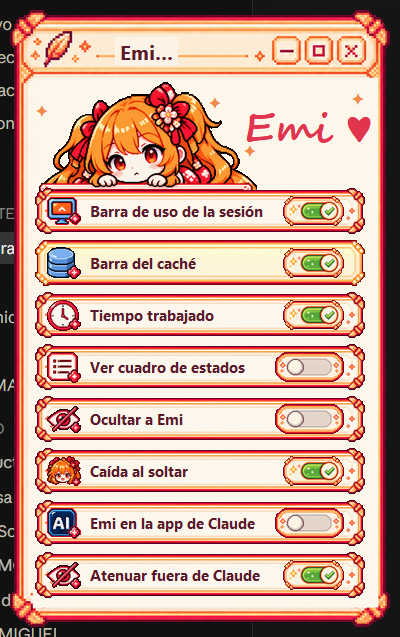
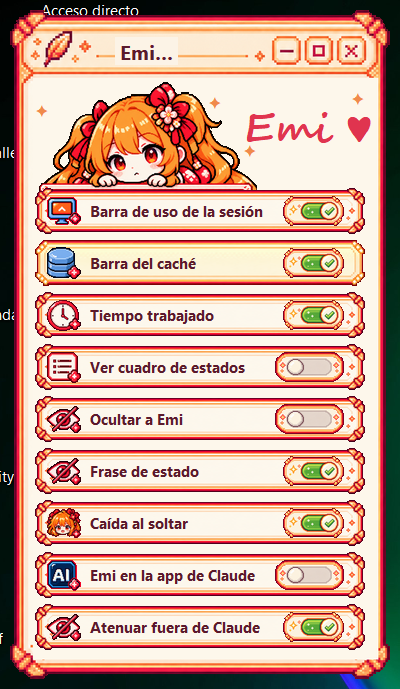
Versión 0.3.0: opción «Frase de estado» en el panel y documentación al día
- Panel de la tuerca con 9 opciones (nueva: mostrar u ocultar la frase de estado).
- CLAUDE.md, README e informe técnico (sección 14) actualizados.
- Versión 0.3.0 para que claude plugin update traiga los cambios.

diff --git a/mod/escritorio/exportar_frames.py b/mod/escritorio/exportar_frames.py
@@ -160,7 +160,7 @@ if MARCO_ORIGEN.exists():
 # Se reducen con Lanczos (es ilustración grande, no píxel a píxel) y alfa de todo o nada, como el resto. Medidas en px del panel (ver emi_escritorio.pyw).
 INTERFAZ = RAIZ / 'arte' / 'interfaz'
 DESTINO_UI = Path(__file__).resolve().parent / 'interfaz'
-PANEL_ANCHO, PANEL_ALTO, FILA_ANCHO, FILA_ALTO, INTER_ALTO = 380, 617, 330, 46, 30  # 8 filas
+PANEL_ANCHO, PANEL_ALTO, FILA_ANCHO, FILA_ALTO, INTER_ALTO = 380, 669, 330, 46, 30  # 9 filas
 
 
 def alfa_binario(im: Image.Image) -> Image.Image:
@@ -209,11 +209,11 @@ if INTERFAZ.exists():
     print('interfaz:', sorted(p.name for p in DESTINO_UI.glob('*.png')))
 
 # Iconos de las filas del panel (arte\interfaz\ICONO-INTERFAZ\1..7.png, en el orden de FILAS_PANEL), a 34 px de alto.
-ICONOS = ['uso', 'cache', 'tiempo', 'cuadro', 'oculta', 'caida', 'banda_app', 'atenuar']
+ICONOS = ['uso', 'cache', 'tiempo', 'cuadro', 'oculta', 'caida', 'banda_app', 'atenuar', 'mensaje']
 if (INTERFAZ / 'ICONO-INTERFAZ').exists():
     for n, k in enumerate(ICONOS, 1):
         origen = INTERFAZ / 'ICONO-INTERFAZ' / f'{n}.png'
-        im = alfa_binario(Image.open(origen if origen.exists() else INTERFAZ / 'ICONO-INTERFAZ' / '5.png'))  # sin icono propio (8: transparente fuera de Claude), el del ojo
+        im = alfa_binario(Image.open(origen if origen.exists() else INTERFAZ / 'ICONO-INTERFAZ' / '5.png'))  # sin icono propio (8: atenuar, 9: frase de estado), el del ojo
         im = im.crop(im.getbbox())
         lado = 34
         alfa_binario(im.resize((round(im.width * lado / max(im.size)), round(im.height * lado / max(im.size))), Image.LANCZOS)).save(DESTINO_UI / f'icono_{k}.png', optimize=True)

diff --git a/CLAUDE.md b/CLAUDE.md
@@ -2,12 +2,12 @@
 
 Lee esto primero. Es el historial completo del proyecto, las reglas del usuario y lo que falta. El README.md explica cómo cargar y compartir el mod; este archivo explica **cómo se llegó aquí y cómo seguir**.
 
-## 0. Estado vigente (2026-10-11) — manda sobre el resto de este archivo
+## 0. Estado vigente (2026-10-12) — manda sobre el resto de este archivo
 - **Estados:** 11 en uso (`baile` fuera). Arte nuevo naranja, 8 fotogramas: pensando, responde, escribiendo, leyendo, terminado, hula, necesita, duerme. Arte lila, 4 fotogramas: nueva, falla, para. **Todos a 5 fps** (`PASO_MS = 200` en `dibujo.ts`; `PASO_S` en Emi escritorio).
 - **Emi escritorio** (`mod\escritorio\emi_escritorio.pyw`): chat (= «frase de estado») con frase, detalle y **modelo que trabaja**; se vuelve semitransparente con el ratón encima. **Dos barras** con el marco de `arte\barra-emi-claude` (90×196): caché (1 h) y % de la sesión (5 h), número en horizontal arriba. Emi y las barras van en **un solo Canvas**: las barras quedan a 2 px de Emi (perfil fila a fila) y quietas durante la animación (manda el dibujo más ancho del estado). Estados solo de escritorio: sujeta, caida, caminando (y guardando).
-- **Panel de la tuerca ⚙** con el arte de `arte\interfaz` (ventana, filas, interruptores, `emi-para-interfaz.png`, iconos `ICONO-INTERFAZ\1..7`): 8 opciones con interruptor, se abre centrado. Opción 8 «Atenuar fuera de Claude»: Emi al 40 % si delante no está `claude.exe`/`windowsterminal.exe` ni el escritorio. Sin «caída al soltar», Emi se queda donde la dejas. Piezas generadas por `exportar_frames.py` en `mod\escritorio\interfaz\`.
+- **Panel de la tuerca ⚙** con el arte de `arte\interfaz` (ventana, filas, interruptores, `emi-para-interfaz.png`, iconos `ICONO-INTERFAZ\1..7`): **9 opciones** con interruptor, se abre centrado. «Frase de estado» muestra u oculta el globo. «Atenuar fuera de Claude»: Emi al 40 % si delante no está `claude.exe`/`windowsterminal.exe` ni el escritorio. Sin «caída al soltar», Emi se queda donde la dejas. Piezas generadas por `exportar_frames.py` en `mod\escritorio\interfaz\`. Atenuar y Frase de estado usan el icono del ojo hasta que haya `8.png`/`9.png`.
 - **Pruebas:** mod 58/58, laboratorio 21/21, `mod\escritorio\prueba_humo.py`. Recargar el mod sin abrir otra sesión: `/reload-plugins`.
-- **GitHub:** público, `SMRJ1421/EMI-ASISTENTE-CLAUDE`, versión 0.2.0; `arte\` no se sube. Instalar: `/plugin install mascota --marketplace SMRJ1421/EMI-ASISTENTE-CLAUDE`. Último commit subido: `5334491` (2026-10-11).
+- **GitHub:** público, `SMRJ1421/EMI-ASISTENTE-CLAUDE`, versión **0.3.0** (súbela en cada publicación: si no cambia, `claude plugin update` no trae nada); `arte\` no se sube. Instalar: `/plugin install mascota --marketplace SMRJ1421/EMI-ASISTENTE-CLAUDE`. Para actualizar en otro PC: `claude plugin marketplace update emilia-mascota` y reinstalar. Emi escritorio (y su tuerca) necesita Python con `pythonw` en el PATH.
 - **Equipo Emi (global, no del mod):** Opus esfuerzo bajo por defecto; ayudantes `emi-haiku` y `emi-sonnet` en `~\.claude\agents\`.
 - **Historial completo:** `docs\CHAT_ACTUALIZACION_ANIMACION.md` (secciones 1–51).
 
@@ -31,7 +31,7 @@ Estados: nueva, pensando, responde, leyendo, escribiendo, necesita, falla, para,
 ## 3. Estructura
 Ver tabla en README.md. Resumen: `mod\` (el mod; fuente de verdad), `laboratorio\` (mod `mascota-lab` con `/emilab` y `/emiproto`), `arte\` (PNG), `scripts\` (pipeline de sprites, diagnóstico, tsconfig), `docs\` (informes técnico y comparativo), `datos-laboratorio\` (medidas y bancos), `respaldos\` (copias antiguas; fuera de Git).
 
-Archivos del mod: `hooks\register.tsx` (único módulo de hooks), `sprites.ts` (429 KB generado, 5 tamaños × 12 × 4, RLE), `dibujo.ts` (celdas Raster, SVG, `elegirTam`, `planPanel`), `estados.ts` (frases, estados por herramienta), `deteccion.ts` (fallo real). Pruebas: `claude plugin test mod` (34), `claude plugin test laboratorio` (15), `claude plugin validate mod`. TypeScript: `npx -y -p typescript@5.6 tsc -p scripts\tsconfig\tc-mod` (y `tc2-lab`; ajusta rutas si falla).
+Archivos del mod: `hooks\register.tsx` (único módulo de hooks), `sprites.ts` (429 KB generado, 5 tamaños × 12 × 4, RLE), `dibujo.ts` (celdas Raster, SVG, `elegirTam`, `planPanel`), `estados.ts` (frases, estados por herramienta), `deteccion.ts` (fallo real). Pruebas: `claude plugin test mod` (58), `claude plugin test laboratorio` (21), `python mod\escritorio\prueba_humo.py`, `claude plugin validate mod`. TypeScript: `npx -y -p typescript@5.6 tsc -p scripts\tsconfig\tc-mod` (y `tc2-lab`; ajusta rutas si falla).
 
 ## 4. Cómo se llegó aquí (cronología)
 1. **Idea y primera versión.** Del pack `pack-mods-claude-code` (fuera de este proyecto) surgió la mascota. Se creó el mod a partir de la hoja de 12 estados y luego de `animacion de Emilia pixel de estados.png` (4 fotogramas por estado). No consume tokens (todo local).
@@ -60,16 +60,17 @@ Archivos del mod: `hooks\register.tsx` (único módulo de hooks), `sprites.ts` (
 2. Con una herramienta **rechazada de verdad**, que Emi no se asuste (la correlación `tool.check` → `tool.call` por `tool_use_id` **no se puede probar en el kit**; hay respaldo por texto `RECHAZO` y por `turno abortado`).
 3. Que cargue bien desde esta carpeta: `claude --plugin-dir "<ruta>\mod"`.
 
-**Decisión del usuario pendiente:** 4 fps (actual) o **8 fps con redibujo normal** (tick 125 ms, fotograma por tiempo; coste medido igual al actual). Comparar `/emiproto atomo8` con `/emiproto blit`. **No integrar sin su aprobación.**
+**Decidido:** todos los estados a 5 fps (ver §0).
 
 **Mejoras no hechas (proponer, no aplicar sin permiso):**
 - `classic.PermissionRequest` y despertar a Emi con `prompt.edit` (idea de otros repos, sin integrar).
 - Los **20 estados nuevos / 8 fotogramas** de `arte\animacion.png` y el sprite de banda 18×28 (el usuario dijo «para más adelante»).
-- Hacer los scripts de `scripts\pipeline-sprites` portables: rutas fijas a `C:\Users\Admin0011\Downloads\…`; apuntar a `..\..\arte\` y dejar un único script de regeneración documentado (hoy hay muchos de pruebas).
+- Iconos propios para «Atenuar fuera de Claude» y «Frase de estado» (`ICONO-INTERFAZ\8.png`, `9.png`).
+- Reducir `mod\escritorio\hd\` (97 MB, PNG de 1254 px): hace lenta la instalación.
 - Prueba automatizada para el panel Dock (hoy se prueba el cálculo `planPanel`, no el montaje real).
 - Decidir licencia del proyecto (el repo es público) (los PNG son del usuario; el arte de clawd NO se usa).
 - Guardar las preferencias de Emi (`$.store`, por PC) en un archivo exportable si el usuario quiere llevarlas a otra PC.
-- Quitar del repo `laboratorio\tests\tmp_cifras.test.ts` (marcador vacío) y los scripts duplicados entre `pipeline-sprites` y `diagnostico`.
+- Quitar del repo `laboratorio\tests\tmp_cifras.test.ts` (marcador vacío). (Los scripts duplicados ya se borraron el 2026-10-11.)
 
 ## 7. Resultados del banco `blit` (para no volver a medir)
 Panel acoplado, sprite M, 12 s por fase (`datos-laboratorio\bench_v2_2026-10-08.json`):

diff --git a/README.md b/README.md
@@ -8,7 +8,7 @@ En una sesión de **terminal** de Claude Code (2.1.294 o más nuevo, Windows):
 ```
 /plugin install mascota --marketplace SMRJ1421/EMI-ASISTENTE-CLAUDE
 ```
-Responde `y` a «Add marketplace?», elige el ámbito (usuario) con Enter, y listo: Emi funciona en esa sesión y en las siguientes (también en la app de escritorio, que carga los mods instalados desde la terminal). Para actualizar: `claude plugin update mascota`.
+Responde `y` a «Add marketplace?», elige el ámbito (usuario) con Enter, y listo: Emi funciona en esa sesión y en las siguientes (también en la app de escritorio, que carga los mods instalados desde la terminal). Para actualizar: `claude plugin marketplace update emilia-mascota` y luego `claude plugin update mascota` (o desinstalar e instalar de nuevo).
 
 Si la descarga tarda más de 2 minutos (conexión lenta), sube el límite antes de instalar: `CLAUDE_CODE_PLUGIN_GIT_TIMEOUT_MS=600000`.
 
@@ -45,7 +45,7 @@ Si la descarga tarda más de 2 minutos (conexión lenta), sube el límite antes 
 - Con arte nuevo (8 fotogramas, fondo transparente): pensando, responde, escribiendo, leyendo, terminado, hula, necesita, duerme. Con el arte original de 4 fotogramas: nueva, falla, para.
 - Emi escritorio (ventana flotante) con su «frase de estado» (el cuadro junto a ella; semitransparente con el ratón encima). Sonido de «listo» cada vez que Claude termina.
 - A su derecha, dos barras con marco: tiempo que le queda al caché de la conversación y % usado de la sesión. Van pegadas a Emi y no se mueven con su animación.
-- La tuerca ⚙ abre el panel de configuración (8 opciones con interruptor): barras, tiempo trabajado, cuadro de estados, ocultar a Emi, caída al soltar, Emi en la app de Claude y atenuar a Emi (40 %) cuando no estás en Claude ni en el escritorio.
+- La tuerca ⚙ abre el panel de configuración (9 opciones con interruptor): barras, tiempo trabajado, cuadro de estados, ocultar a Emi, frase de estado, caída al soltar, Emi en la app de Claude y atenuar a Emi (40 %) cuando no estás en Claude ni en el escritorio.
 - Sin verificar en terminal real: correlación `tool.check` → `tool.call`; aspecto en el Windows Terminal del autor de los sprites 60x60 y 28x28.
 
 ## Notas

diff --git a/docs/INFORME_TECNICO_EMILIA.md b/docs/INFORME_TECNICO_EMILIA.md
@@ -504,3 +504,16 @@ Sin cambios: panel acoplado, banda adaptativa, los 12 estados con sus 4 fotogram
 - **[LÍMITE]** El beneficio de pintado de las celdas con espacio en Windows Terminal no está medido; sí está probado que la imagen no cambia.
 - **[LÍMITE]** La correlación `tool.check` → `tool.call` (por `tool_use_id`) no se puede reproducir en el kit de pruebas; en la sesión real queda sin verificar. El texto del rechazo (`RECHAZO`) es una heurística que cubre el caso aunque `tool.check` no avise.
 - **[LÍMITE]** `classic.PermissionRequest` y el despertar con `prompt.edit` siguen sin integrarse.
+
+## 14. Actualización: Emi escritorio (2026-10-09 a 2026-10-12)
+
+El detalle paso a paso está en `docs\CHAT_ACTUALIZACION_ANIMACION.md` (secciones 39–51). Resumen:
+
+- **Emi escritorio** (`mod\escritorio\emi_escritorio.pyw`, Python + tkinter, sin Pillow): ventana transparente siempre visible con los fotogramas HD (1254 px reducidos con `subsample`), «frase de estado» (globo), estados propios (sujeta, caida, caminando), paseo y caída al soltar.
+- **Barras** de caché (1 h) y de uso de la sesión (5 h) con el marco de `arte\barra-emi-claude`. Emi y las barras comparten un único `Canvas`: un Canvas con el color transparente de la ventana no deja ver a Emi detrás, así que no se pueden solapar dos lienzos. La posición se calcula con el perfil fila a fila de Emi y del marco (2 px de separación) y con el dibujo más ancho de cada estado, para que las barras no se muevan con la animación.
+- **Panel de la tuerca** con el arte de `arte\interfaz` (piezas generadas por `exportar_frames.py` con Lanczos y alfa de todo o nada): 9 opciones con interruptor, entre ellas «Atenuar fuera de Claude» (40 % si la ventana de delante no es Claude ni el escritorio; `GetForegroundWindow` vía ctypes).
+
+### 14.1 Limitaciones
+
+- **[LÍMITE]** Los clics del panel, el arrastre sin caída y el cambio de opacidad al cambiar de ventana solo se probaron con la prueba de humo y capturas; falta la comprobación con el ratón real.
+- **[LÍMITE]** «Claude» se reconoce por el nombre del proceso (`claude.exe`, `windowsterminal.exe`); otra terminal (VS Code, por ejemplo) cuenta como «otra ventana».

diff --git a/docs/CHAT_ACTUALIZACION_ANIMACION.md b/docs/CHAT_ACTUALIZACION_ANIMACION.md
@@ -419,3 +419,4 @@ Antes un solo botón «Barra de uso» apagaba todo. Ahora hay tres: «Barra de u
 **Cabecera del panel:** ahora usa `arte\interfaz\emi-para-interfaz.png` (Emi apoyada en una barra), recortada hasta la barra y reducida a 112 px de alto; la barra queda sobre la primera fila. El panel se abre en el centro de la pantalla.
 **Iconos y un interruptor en cada fila:** iconos de `arte\interfaz\ICONO-INTERFAZ\1..7.png` (exportados a `interfaz\icono_<clave>.png`, 34 px). «Ver cuadro de estados» y «Ocultar a Emi» también llevan interruptor (cuadro abierto / Emi oculta); al cerrar el cuadro con la X su interruptor se apaga.
 **Atenuar fuera de Claude (opción 8 del panel, activada por defecto):** cada 0,5 s `vigilar_foco()` mira la ventana en primer plano (`ventana_delante()`, ctypes): si no es Claude (`claude.exe`, `windowsterminal.exe`), ni el escritorio/barra de tareas, ni la propia Emi, Emi y su globo bajan a opacidad 0,4 (`ALFA_LEJOS`). Se guarda como `atenuar` en escritorio.json. Icono provisional: el del ojo (falta un 8.png en ICONO-INTERFAZ). Panel alargado a 8 filas (fondo 380×617).
+**Opción «Frase de estado» en el panel (9.ª fila):** interruptor que muestra u oculta el globo (`alternar_mensaje`, ya existía en el menú de clic derecho). Icono provisional: el del ojo. Panel alargado a 9 filas (fondo 380×669).
